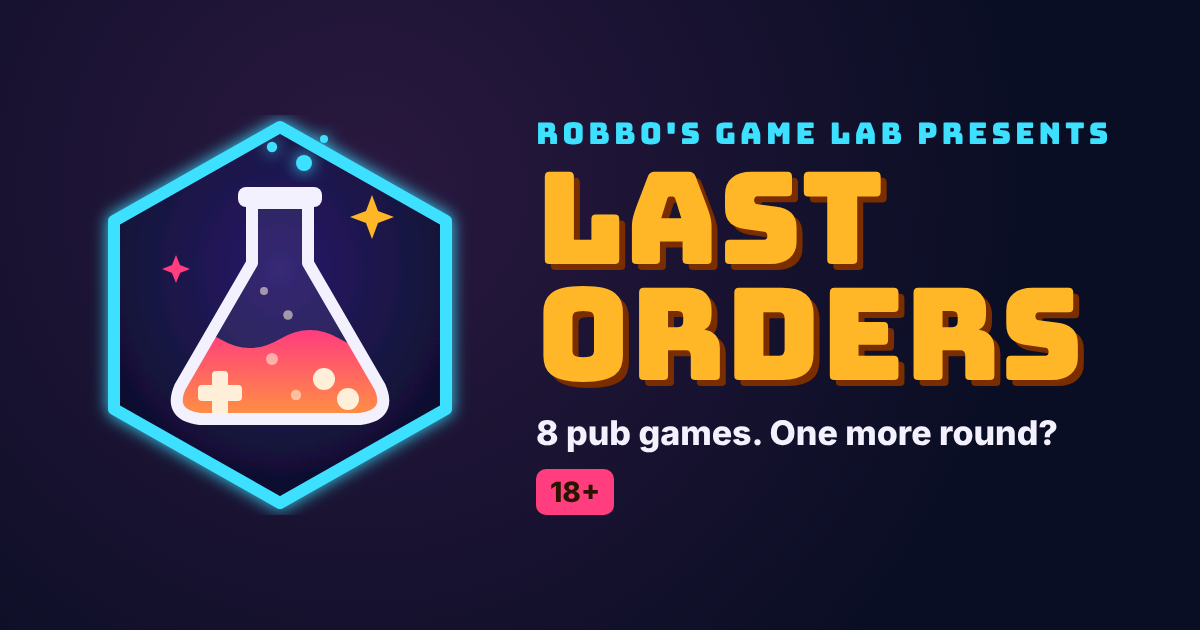
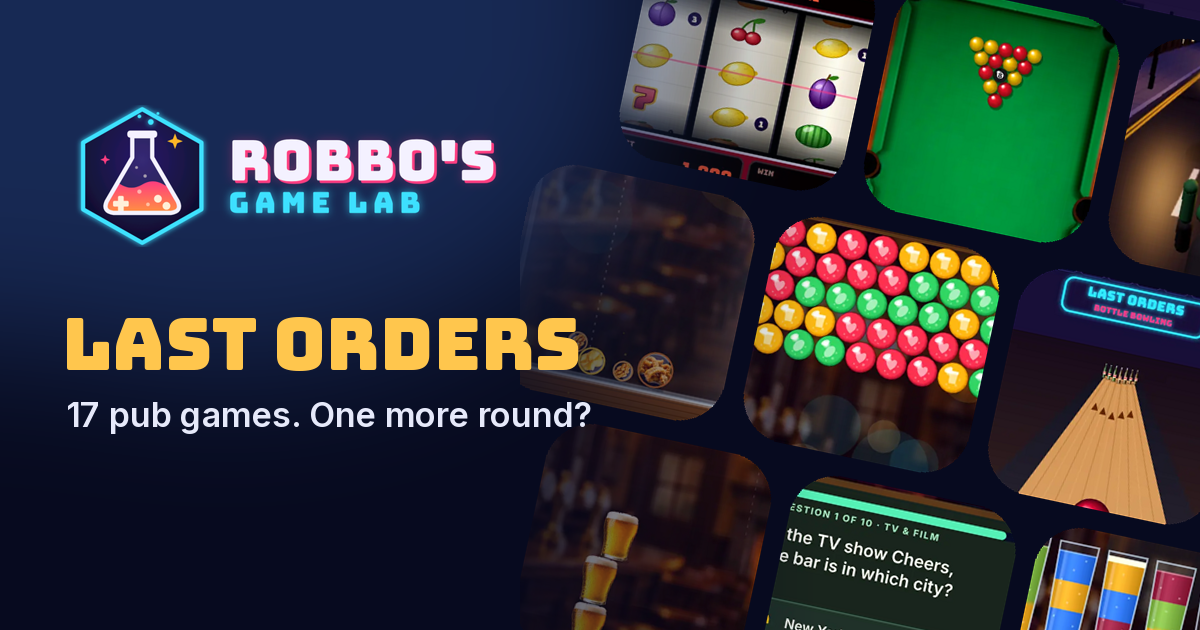
4.4 share previews

diff --git a/sw.js b/sw.js
@@ -1,5 +1,5 @@
 // Last Orders: works offline once loaded. Bump VERSION on every release.
-const VERSION = "lastorders-4.3";
+const VERSION = "lastorders-4.4";
 const FILES = ["/", "/index.html", "/privacy.html", "/common.css", "/common.js", "/hub.css", "/hub.js", "/img/games/barman.webp", "/img/games/bowling.webp", "/img/games/cards.webp", "/img/games/crush.webp", "/img/games/darts.webp", "/img/games/flying-pint.webp", "/img/games/goldpints.webp", "/img/games/merge.webp", "/img/games/pong.webp", "/img/games/pool.webp", "/img/games/pop.webp", "/img/games/pour.webp", "/img/games/quiz.webp", "/img/games/run.webp", "/img/games/slots.webp", "/img/games/sort.webp", "/img/games/stack.webp", "/img/games/goldpints-hero.webp", "/lab-badge.svg", "/lab-logo.png", "/manifest.webmanifest", "/icon-192.png", "/icon-512.png", "/vendor/three.module.min.js", "/run3d.js", "/quiz-data.js", "/flying-pint.html", "/run.html", "/run-lite.html", "/darts.html", "/pop.html", "/pop.js", "/merge.html", "/merge.js", "/crush.html", "/crush.js", "/barman.html", "/barman.js", "/stack.html", "/stack.js", "/bowling.html", "/bowling.js", "/pong.html", "/pong.js", "/pool.html", "/pool.js", "/pour.html", "/pour.js", "/sort.html", "/sort.js", "/quiz.html", "/quiz.js", "/cards.html", "/cards.js", "/slots.html", "/slots.js", "/goldpints.html", "/goldpints.js", "/img/crush/beer.webp", "/img/crush/wine.webp", "/img/crush/blue.webp", "/img/crush/purple.webp", "/img/crush/whisky.webp", "/img/crush/burger.webp", "/img/crush/chips.webp", "/img/crush/wild.webp", "/img/crush/rocket.webp", "/img/crush/bomb.webp", "/img/crush/p-shuffle.webp", "/img/crush/p-bomb.webp", "/img/crush/p-rocket.webp", "/img/crush/p-freeze.webp", "/img/pub-bg.webp", "/img/pool-table.webp", "/img/drinks/lager.webp", "/img/drinks/stout.webp", "/img/drinks/wine.webp", "/img/drinks/bottle.webp", "/img/snacks/peanuts.webp", "/img/snacks/crisps.webp", "/img/snacks/scratchings.webp", "/img/snacks/egg.webp", "/img/snacks/scotch-egg.webp", "/img/snacks/sausage-roll.webp", "/img/snacks/pie.webp", "/img/snacks/burger.webp", "/img/snacks/kebab.webp", "/img/snacks/pizza.webp", "/img/chars/lager.webp", "/img/chars/stout.webp", "/img/chars/wine.webp", "/img/chars/bottle.webp", "/img/chars/cool.webp"];
 self.addEventListener("install", (e) => { e.waitUntil(caches.open(VERSION).then((c) => c.addAll(FILES)).then(() => self.skipWaiting())); });
 self.addEventListener("activate", (e) => { e.waitUntil(caches.keys().then((ks) => Promise.all(ks.filter((k) => k !== VERSION).map((k) => caches.delete(k)))).then(() => self.clients.claim())); });

diff --git a/slots.html b/slots.html
@@ -13,8 +13,14 @@
 <meta name="apple-mobile-web-app-capable" content="yes">
 <meta name="mobile-web-app-capable" content="yes">
 <meta property="og:title" content="Fruit Machine">
-<meta property="og:description" content="Holds, nudges, a gamble and a pick-a-pint bonus. Free play pub fruit machine. 18+.">
-<meta property="og:image" content="/og.png">
+<meta property="og:description" content="Holds, nudges, a gamble and a pick-a-pint bonus. Free play pub fruit machine.">
+<meta property="og:image" content="https://lastorders.onrender.com/img/share/slots.jpg">
+<meta property="og:image:width" content="1200">
+<meta property="og:image:height" content="630">
+<meta property="og:url" content="https://lastorders.onrender.com/slots.html">
+<meta property="og:type" content="website">
+<meta property="og:site_name" content="Robbo's Game Lab">
+<meta name="twitter:card" content="summary_large_image">
 <link rel="preconnect" href="https://fonts.googleapis.com">
 <link rel="stylesheet" href="https://fonts.googleapis.com/css2?family=Bungee&family=Inter:wght@400;600;800&display=swap">
 <link rel="stylesheet" href="/common.css">

diff --git a/quiz.html b/quiz.html
@@ -13,8 +13,14 @@
 <meta name="apple-mobile-web-app-capable" content="yes">
 <meta name="mobile-web-app-capable" content="yes">
 <meta property="og:title" content="Pub Quiz">
-<meta property="og:description" content="A new ten-question pub quiz every night. Beat the clock and top the leaderboard. 18+.">
-<meta property="og:image" content="/og.png">
+<meta property="og:description" content="A new ten-question pub quiz every night. Beat the clock and top the leaderboard.">
+<meta property="og:image" content="https://lastorders.onrender.com/img/share/quiz.jpg">
+<meta property="og:image:width" content="1200">
+<meta property="og:image:height" content="630">
+<meta property="og:url" content="https://lastorders.onrender.com/quiz.html">
+<meta property="og:type" content="website">
+<meta property="og:site_name" content="Robbo's Game Lab">
+<meta name="twitter:card" content="summary_large_image">
 <link rel="preconnect" href="https://fonts.googleapis.com">
 <link rel="stylesheet" href="https://fonts.googleapis.com/css2?family=Bungee&family=Inter:wght@400;600;800&display=swap">
 <link rel="stylesheet" href="/common.css">

diff --git a/goldpints.html b/goldpints.html
@@ -13,8 +13,14 @@
 <meta name="apple-mobile-web-app-capable" content="yes">
 <meta name="mobile-web-app-capable" content="yes">
 <meta property="og:title" content="Golden Pints">
-<meta property="og:description" content="5 reels, 20 lines, wilds, free spins and a daily bonus wheel. Free play. 18+.">
-<meta property="og:image" content="/og.png">
+<meta property="og:description" content="5 reels, 20 lines, wilds, free spins and a daily bonus wheel. Free play.">
+<meta property="og:image" content="https://lastorders.onrender.com/img/share/goldpints.jpg">
+<meta property="og:image:width" content="1200">
+<meta property="og:image:height" content="630">
+<meta property="og:url" content="https://lastorders.onrender.com/goldpints.html">
+<meta property="og:type" content="website">
+<meta property="og:site_name" content="Robbo's Game Lab">
+<meta name="twitter:card" content="summary_large_image">
 <link rel="preconnect" href="https://fonts.googleapis.com">
 <link rel="stylesheet" href="https://fonts.googleapis.com/css2?family=Bungee&family=Inter:wght@400;600;800&display=swap">
 <link rel="stylesheet" href="/common.css">

diff --git a/flying-pint.html b/flying-pint.html
@@ -14,8 +14,14 @@
 <meta name="mobile-web-app-capable" content="yes">
 <meta name="apple-mobile-web-app-status-bar-style" content="black-translucent">
 <meta property="og:title" content="Flying Pint">
-<meta property="og:description" content="Flap a flying pint home past the pubs. How far can you get? 18+">
-<meta property="og:image" content="/og.png">
+<meta property="og:description" content="Flap a flying pint home past the pubs. How far can you get?">
+<meta property="og:image" content="https://lastorders.onrender.com/img/share/flying-pint.jpg">
+<meta property="og:image:width" content="1200">
+<meta property="og:image:height" content="630">
+<meta property="og:url" content="https://lastorders.onrender.com/flying-pint.html">
+<meta property="og:type" content="website">
+<meta property="og:site_name" content="Robbo's Game Lab">
+<meta name="twitter:card" content="summary_large_image">
 <link rel="preconnect" href="https://fonts.googleapis.com">
 <link rel="stylesheet" href="https://fonts.googleapis.com/css2?family=Bungee&family=Inter:wght@400;600;800&display=swap">
 <link rel="stylesheet" href="/common.css">

diff --git a/merge.html b/merge.html
@@ -13,8 +13,14 @@
 <meta name="apple-mobile-web-app-capable" content="yes">
 <meta name="mobile-web-app-capable" content="yes">
 <meta property="og:title" content="Snack Merge">
-<meta property="og:description" content="Drop bar snacks into a pint glass. Two the same merge into the next one up. 18+.">
-<meta property="og:image" content="/og.png">
+<meta property="og:description" content="Drop bar snacks into a pint glass. Two the same merge into the next one up.">
+<meta property="og:image" content="https://lastorders.onrender.com/img/share/merge.jpg">
+<meta property="og:image:width" content="1200">
+<meta property="og:image:height" content="630">
+<meta property="og:url" content="https://lastorders.onrender.com/merge.html">
+<meta property="og:type" content="website">
+<meta property="og:site_name" content="Robbo's Game Lab">
+<meta name="twitter:card" content="summary_large_image">
 <link rel="preconnect" href="https://fonts.googleapis.com">
 <link rel="stylesheet" href="https://fonts.googleapis.com/css2?family=Bungee&family=Inter:wght@400;600;800&display=swap">
 <link rel="stylesheet" href="/common.css">

diff --git a/sort.html b/sort.html
@@ -13,8 +13,14 @@
 <meta name="apple-mobile-web-app-capable" content="yes">
 <meta name="mobile-web-app-capable" content="yes">
 <meta property="og:title" content="Drink Sort">
-<meta property="og:description" content="Pour drinks between glasses until each holds one drink. A tricky pub puzzle. 18+.">
-<meta property="og:image" content="/og.png">
+<meta property="og:description" content="Pour drinks between glasses until each holds one drink. A tricky pub puzzle.">
+<meta property="og:image" content="https://lastorders.onrender.com/img/share/sort.jpg">
+<meta property="og:image:width" content="1200">
+<meta property="og:image:height" content="630">
+<meta property="og:url" content="https://lastorders.onrender.com/sort.html">
+<meta property="og:type" content="website">
+<meta property="og:site_name" content="Robbo's Game Lab">
+<meta name="twitter:card" content="summary_large_image">
 <link rel="preconnect" href="https://fonts.googleapis.com">
 <link rel="stylesheet" href="https://fonts.googleapis.com/css2?family=Bungee&family=Inter:wght@400;600;800&display=swap">
 <link rel="stylesheet" href="/common.css">

diff --git a/run-lite.html b/run-lite.html
@@ -13,8 +13,14 @@
 <meta name="apple-mobile-web-app-capable" content="yes">
 <meta name="mobile-web-app-capable" content="yes">
 <meta property="og:title" content="Beer Goggles">
-<meta property="og:description" content="Run from the Swamp Monster. Every beer makes them look a bit better. 18+">
-<meta property="og:image" content="/og.png">
+<meta property="og:description" content="Run from the Swamp Monster. Every beer makes them look a bit better.">
+<meta property="og:image" content="https://lastorders.onrender.com/img/share/run.jpg">
+<meta property="og:image:width" content="1200">
+<meta property="og:image:height" content="630">
+<meta property="og:url" content="https://lastorders.onrender.com/run-lite.html">
+<meta property="og:type" content="website">
+<meta property="og:site_name" content="Robbo's Game Lab">
+<meta name="twitter:card" content="summary_large_image">
 <link rel="preconnect" href="https://fonts.googleapis.com">
 <link rel="stylesheet" href="https://fonts.googleapis.com/css2?family=Bungee&family=Inter:wght@400;600;800&display=swap">
 <link rel="stylesheet" href="/common.css">

diff --git a/cards.html b/cards.html
@@ -13,8 +13,14 @@
 <meta name="apple-mobile-web-app-capable" content="yes">
 <meta name="mobile-web-app-capable" content="yes">
 <meta property="og:title" content="Higher or Lower">
-<meta property="og:description" content="Guess higher or lower. Aces high, pairs lose. How many in a row? 18+.">
-<meta property="og:image" content="/og.png">
+<meta property="og:description" content="Guess higher or lower. Aces high, pairs lose. How many in a row?">
+<meta property="og:image" content="https://lastorders.onrender.com/img/share/cards.jpg">
+<meta property="og:image:width" content="1200">
+<meta property="og:image:height" content="630">
+<meta property="og:url" content="https://lastorders.onrender.com/cards.html">
+<meta property="og:type" content="website">
+<meta property="og:site_name" content="Robbo's Game Lab">
+<meta name="twitter:card" content="summary_large_image">
 <link rel="preconnect" href="https://fonts.googleapis.com">
 <link rel="stylesheet" href="https://fonts.googleapis.com/css2?family=Bungee&family=Inter:wght@400;600;800&display=swap">
 <link rel="stylesheet" href="/common.css">

diff --git a/run.html b/run.html
@@ -13,8 +13,14 @@
 <meta name="apple-mobile-web-app-capable" content="yes">
 <meta name="mobile-web-app-capable" content="yes">
 <meta property="og:title" content="Beer Goggles">
-<meta property="og:description" content="Run from the Swamp Monster. Every beer makes them look a bit better. 18+">
-<meta property="og:image" content="/og.png">
+<meta property="og:description" content="Run from the Swamp Monster. Every beer makes them look a bit better.">
+<meta property="og:image" content="https://lastorders.onrender.com/img/share/run.jpg">
+<meta property="og:image:width" content="1200">
+<meta property="og:image:height" content="630">
+<meta property="og:url" content="https://lastorders.onrender.com/run.html">
+<meta property="og:type" content="website">
+<meta property="og:site_name" content="Robbo's Game Lab">
+<meta name="twitter:card" content="summary_large_image">
 <link rel="preconnect" href="https://fonts.googleapis.com">
 <link rel="stylesheet" href="https://fonts.googleapis.com/css2?family=Bungee&family=Inter:wght@400;600;800&display=swap">
 <link rel="stylesheet" href="/common.css">

diff --git a/stack.html b/stack.html
@@ -13,8 +13,14 @@
 <meta name="apple-mobile-web-app-capable" content="yes">
 <meta name="mobile-web-app-capable" content="yes">
 <meta property="og:title" content="Pint Stacker">
-<meta property="og:description" content="Tap to stack drinks on a tray. One wobble and it all comes down. 18+.">
-<meta property="og:image" content="/og.png">
+<meta property="og:description" content="Tap to stack drinks on a tray. One wobble and it all comes down.">
+<meta property="og:image" content="https://lastorders.onrender.com/img/share/stack.jpg">
+<meta property="og:image:width" content="1200">
+<meta property="og:image:height" content="630">
+<meta property="og:url" content="https://lastorders.onrender.com/stack.html">
+<meta property="og:type" content="website">
+<meta property="og:site_name" content="Robbo's Game Lab">
+<meta name="twitter:card" content="summary_large_image">
 <link rel="preconnect" href="https://fonts.googleapis.com">
 <link rel="stylesheet" href="https://fonts.googleapis.com/css2?family=Bungee&family=Inter:wght@400;600;800&display=swap">
 <link rel="stylesheet" href="/common.css">

diff --git a/pong.html b/pong.html
@@ -13,8 +13,14 @@
 <meta name="apple-mobile-web-app-capable" content="yes">
 <meta name="mobile-web-app-capable" content="yes">
 <meta property="og:title" content="Beer Pong">
-<meta property="og:description" content="Flick the ball into the cups. Heat up, catch fire, clear the rack. 18+.">
-<meta property="og:image" content="/og.png">
+<meta property="og:description" content="Flick the ball into the cups. Heat up, catch fire, clear the rack.">
+<meta property="og:image" content="https://lastorders.onrender.com/img/share/pong.jpg">
+<meta property="og:image:width" content="1200">
+<meta property="og:image:height" content="630">
+<meta property="og:url" content="https://lastorders.onrender.com/pong.html">
+<meta property="og:type" content="website">
+<meta property="og:site_name" content="Robbo's Game Lab">
+<meta name="twitter:card" content="summary_large_image">
 <link rel="preconnect" href="https://fonts.googleapis.com">
 <link rel="stylesheet" href="https://fonts.googleapis.com/css2?family=Bungee&family=Inter:wght@400;600;800&display=swap">
 <link rel="stylesheet" href="/common.css">
